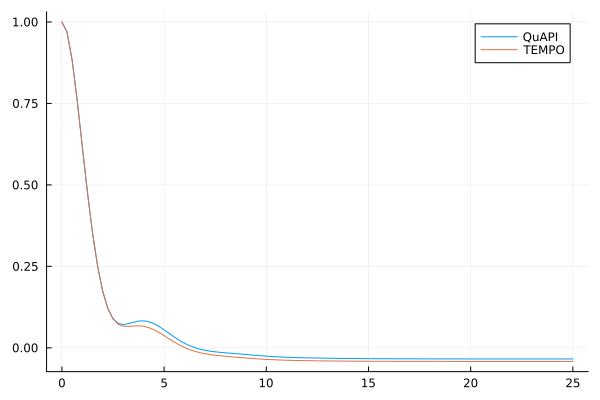
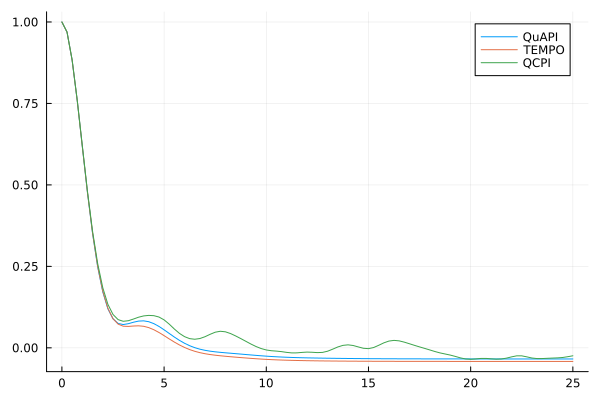
added QCPI to Spin Boson example

diff --git a/JuliaPathIntegralMethods/README.md b/JuliaPathIntegralMethods/README.md
@@ -12,4 +12,4 @@ Some interesting things to try :
 
 - [ ] Photosynthesis PS-2 systems. 
 
-
+- [ ] FMO complex from Bose JCP paper, try with other methods
